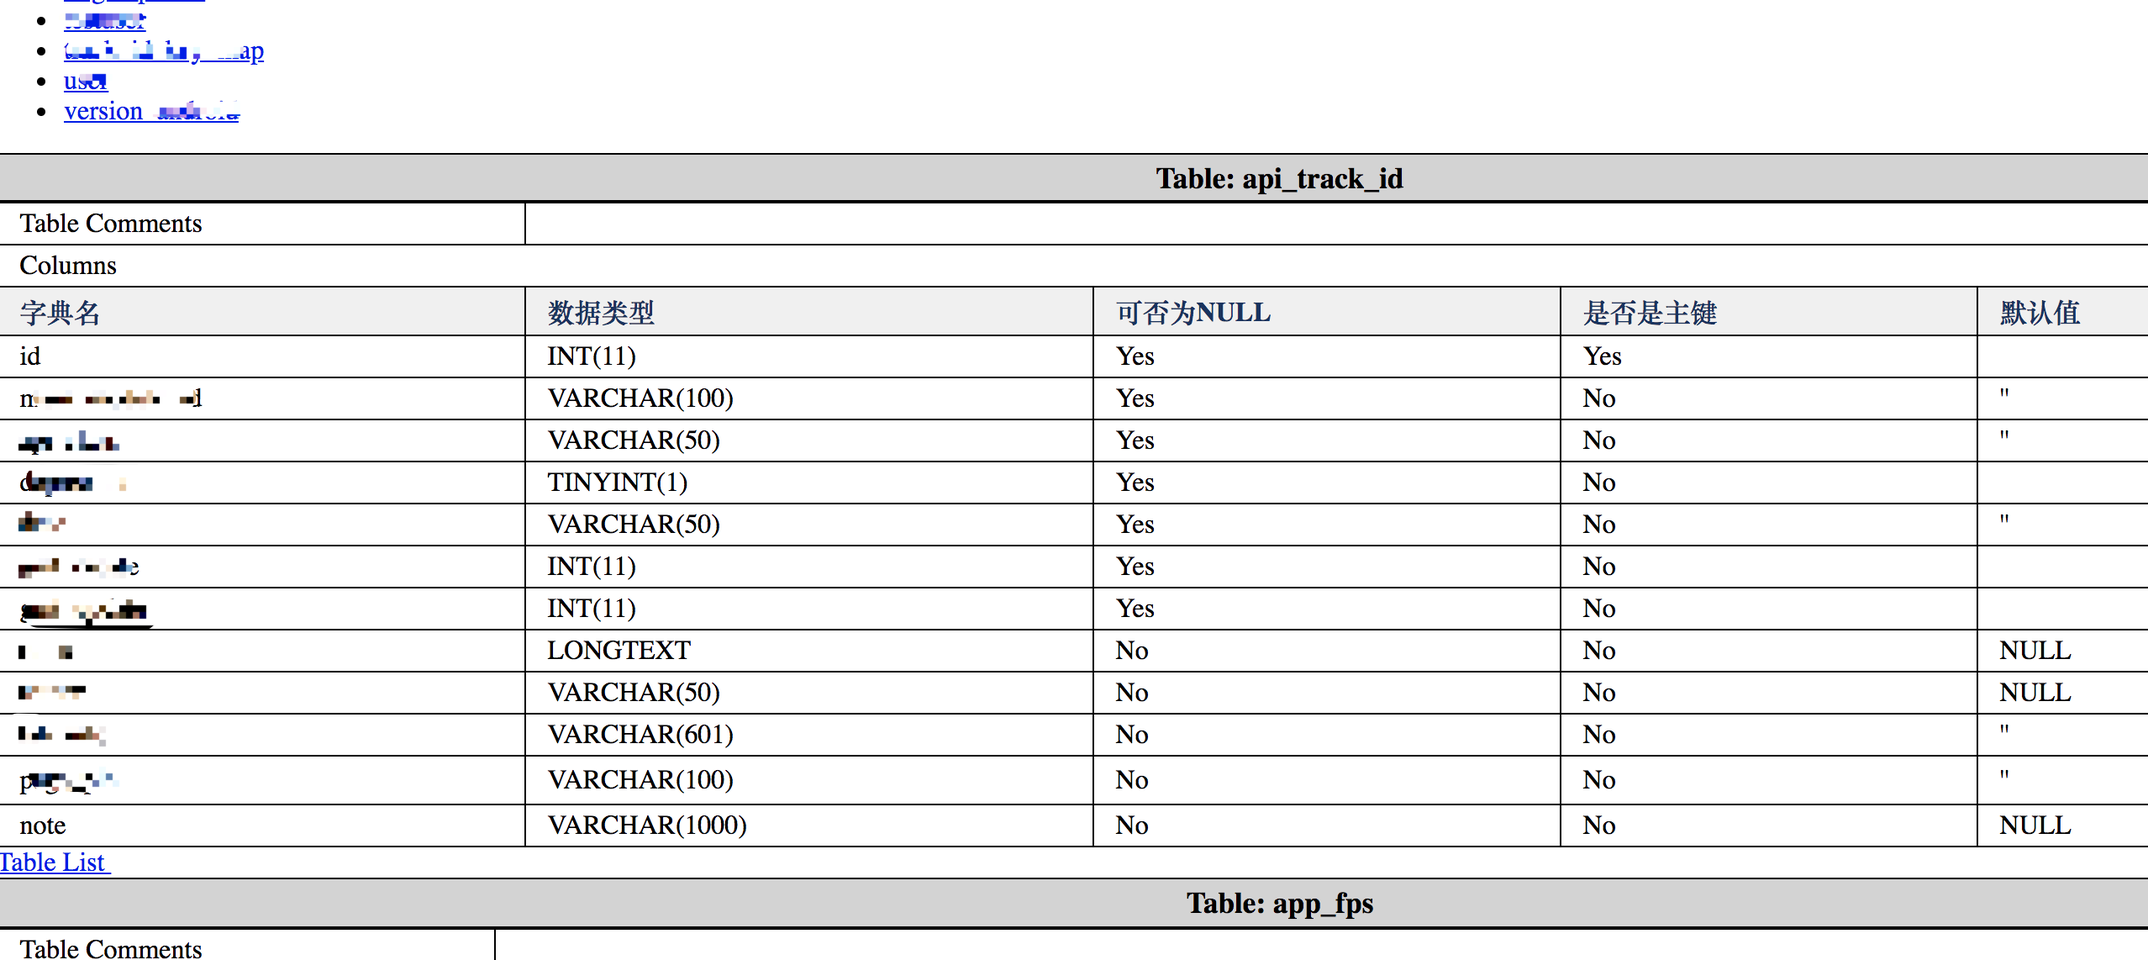
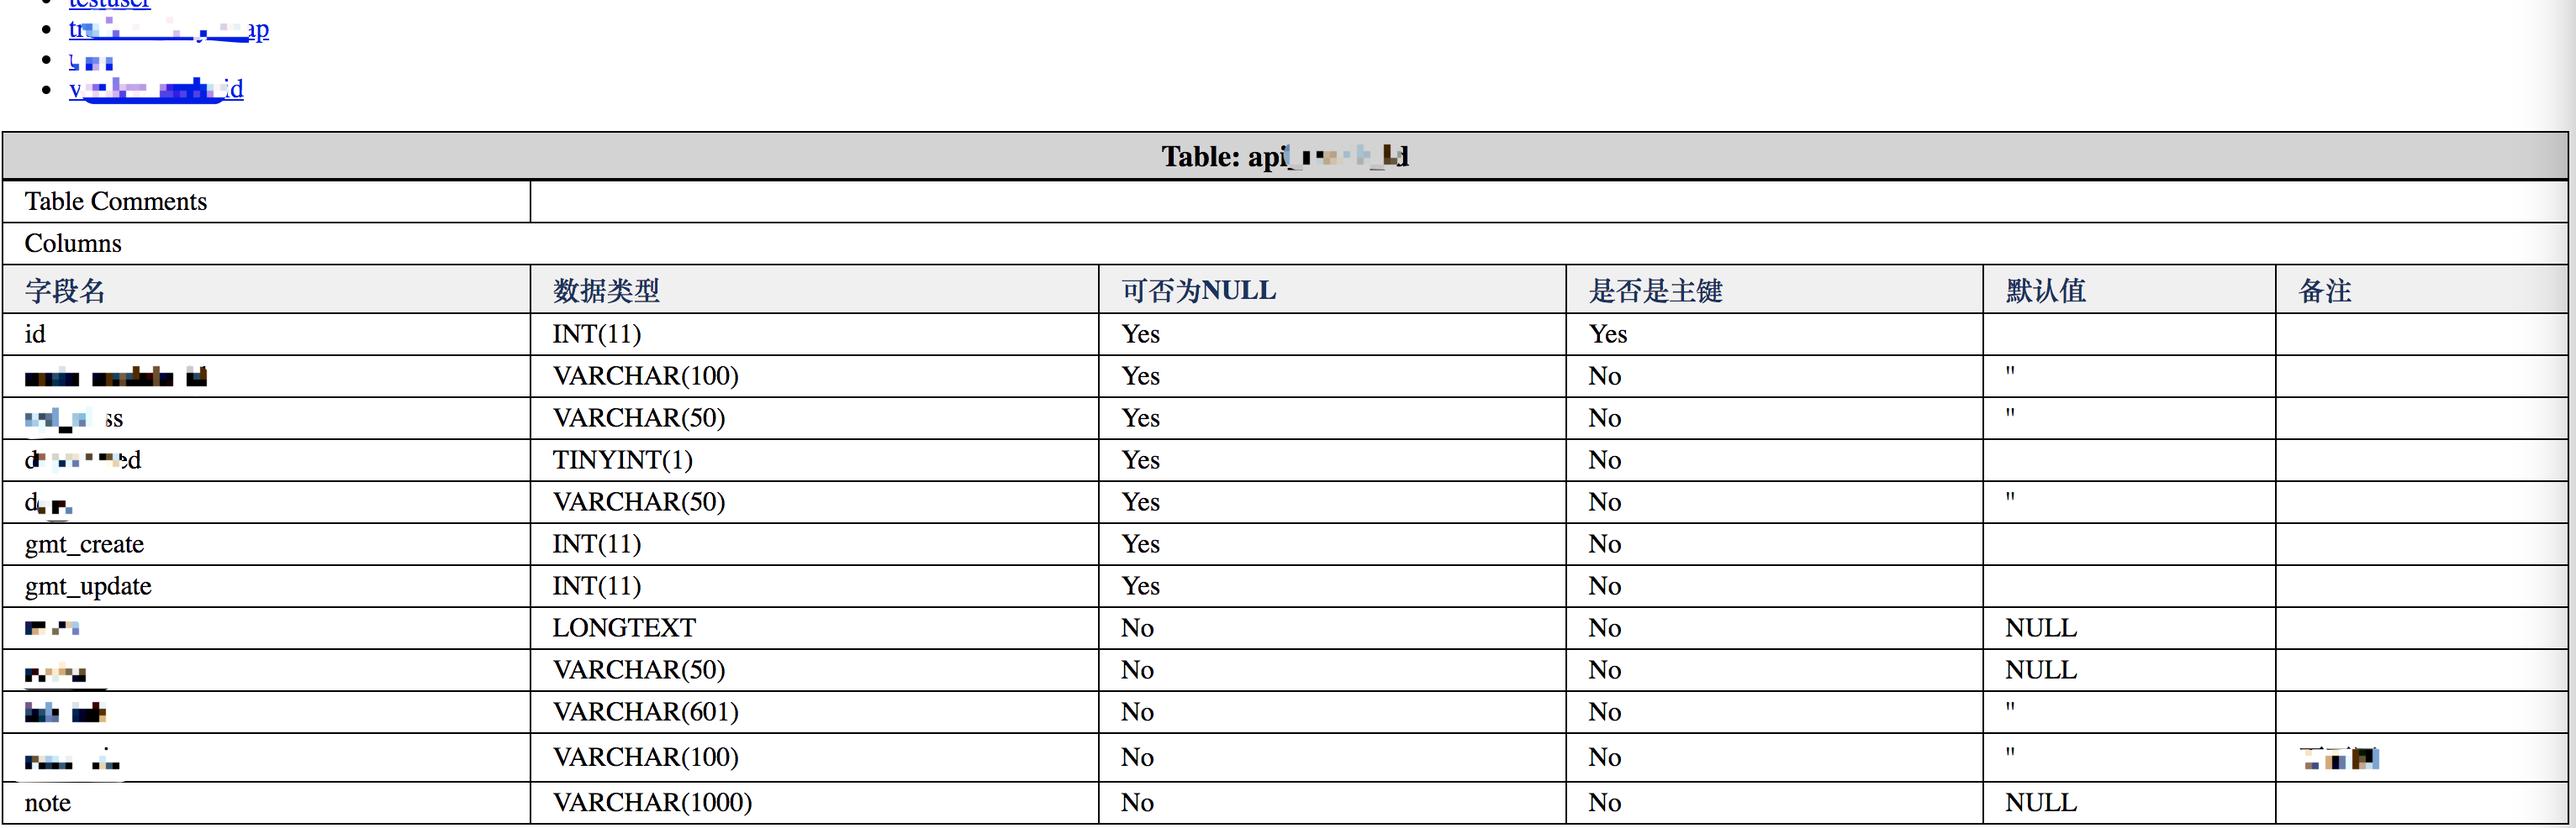
Fixed: 生成的数据字典表头文案修正

Changed region(s): [[0.0, 0.0, 1.0, 1.0], [0.0, 0.0, 0.1236, 0.1521]]

diff --git a/HTMLShemaReport.py b/HTMLShemaReport.py
@@ -63,7 +63,7 @@ def htmlDataDictionary(catalog):
       print >>htmlFile, "<tr><td>Table Comments</td><td colspan=\"6\">%s</td></tr>" % (table.comment)
       print >>htmlFile, """<tr><td colspan=\"7\">Columns</td></tr>
         <tr>
-        <th>字典名</th>
+        <th>字段名</th>
         <th>数据类型</th>
         <th>可否为NULL</th>
         <th>是否是主键</th>
